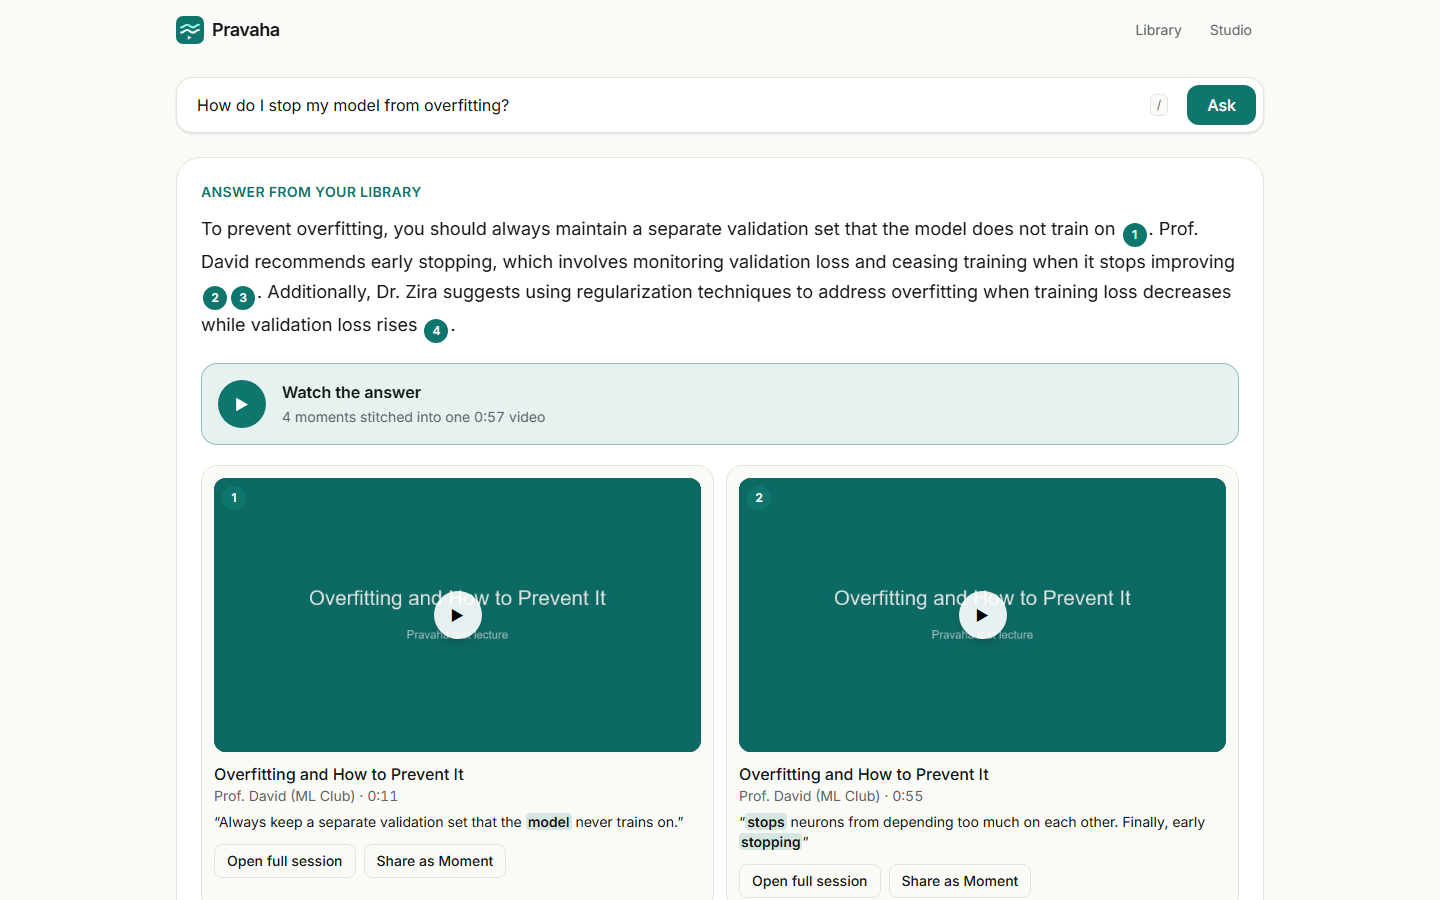
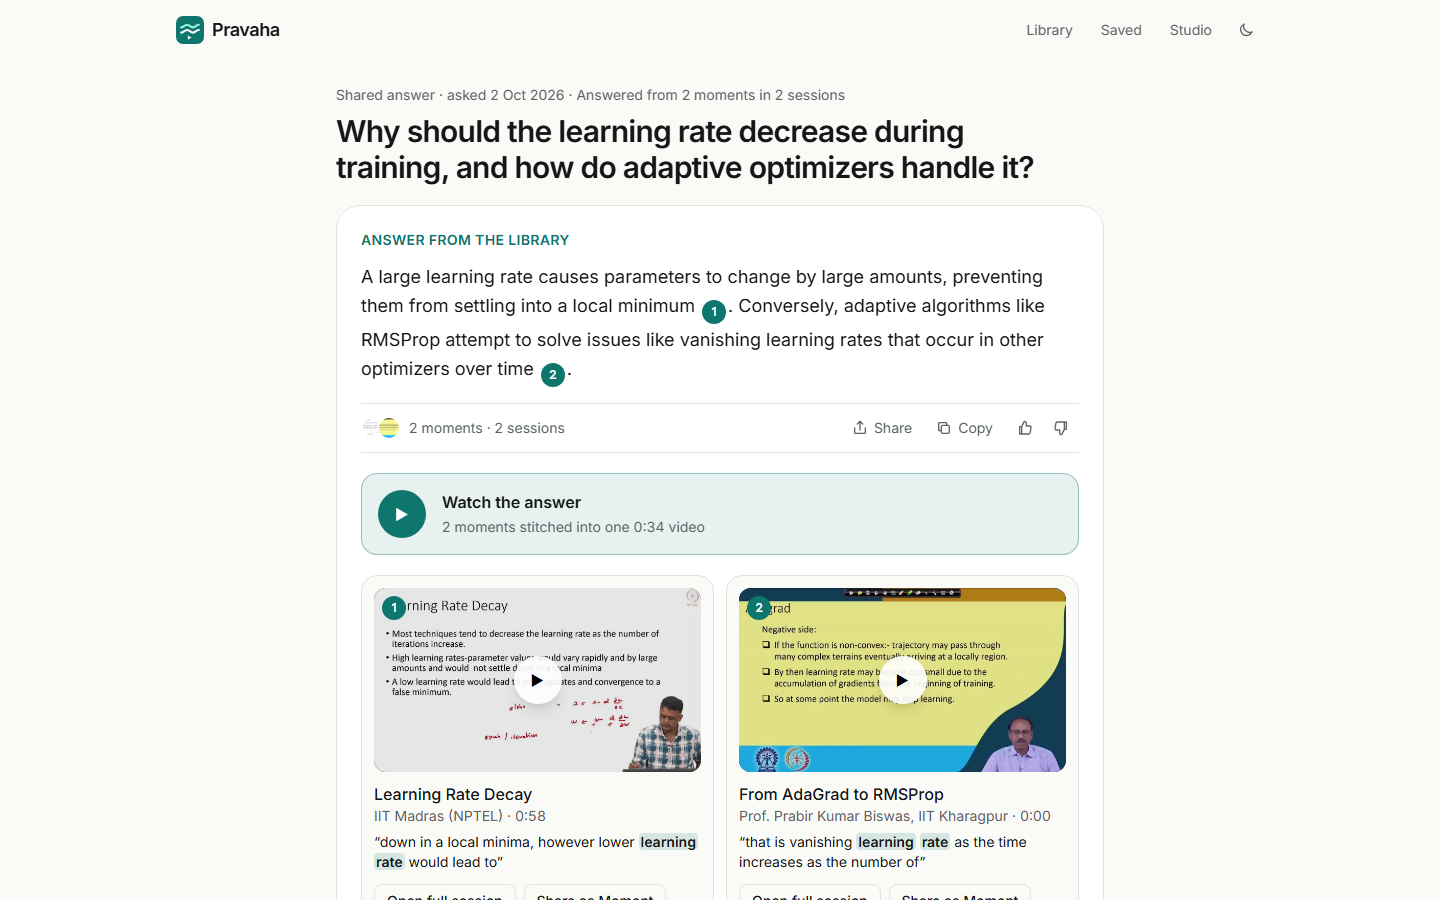
docs(readme): real-library screenshots, eval results and NPTEL credits

diff --git a/README.md b/README.md
@@ -72,7 +72,12 @@ Colleges, clubs and coaching institutes record hundreds of hours of lectures and
 
 | Home | Watch + Study Pack |
 |---|---|
-| <img src="docs/screenshots/home.png" alt="Home page with the Ask bar, how it works and the library" /> | <img src="docs/screenshots/watch.png" alt="Watch page with the adaptive player, chapters and the Study Pack" /> |
+| <img src="docs/screenshots/home.png" alt="Home page with the animated hero and the Ask bar" /> | <img src="docs/screenshots/watch.png" alt="Watch page with the adaptive player, chapters and the Study Pack" /> |
+
+<p align="center">
+  <img src="docs/screenshots/library.png" alt="The demo library: six lecture excerpts from IIT Kharagpur and IIT Madras" width="900" />
+  <br /><sub>The demo library: six machine-learning lecture excerpts from four NPTEL courses.</sub>
+</p>
 
 <p align="center">
   <img src="docs/screenshots/mobile-ask.png" alt="Ask on a phone" width="300" />
@@ -129,7 +134,7 @@ Diagrams and reasoning: [`docs/ARCHITECTURE.md`](docs/ARCHITECTURE.md) · [`docs
 
 Open the live app at **[pravaha-cyan.vercel.app](https://pravaha-cyan.vercel.app)**. Learners need no login.
 
-1. On the home page, type a question or tap a suggestion. Live progress appears, then an answer with numbered citations.
+1. On the home page, type a question or tap a suggestion. Try "Why should the learning rate decrease during training, and how do adaptive optimizers handle it?": live progress appears, then one answer citing two professors from two institutes, plus an Answer Reel. Or ask in Hindi: "ओवरफिटिंग क्या है?"
 2. Hover or tap a citation number to preview the quote. Play a source card: the clip starts at the exact moment. Then try **Watch the answer** (the Answer Reel), **Open full session** or **Share as Moment**.
 3. On a session page, open **Study**: the summary, key concepts, a quiz whose explanations play the moment, and "Session in 60 seconds".
 4. Search a phrase. The results jump to the second, across sessions.
@@ -217,7 +222,7 @@ openapi.yaml           API specification (OpenAPI 3.0)
   - Ask answers with a playable citation
   - Ask refuses an off-topic question
   - unauthenticated organizer requests and unsigned webhooks are rejected
-- **The AI eval** ([`docs/AI_EVALUATION.md`](docs/AI_EVALUATION.md)) checks that Ask stays grounded, cites real moments, and refuses when it should.
+- **The AI eval** ([`docs/AI_EVALUATION.md`](docs/AI_EVALUATION.md)) on production, Oct 2: **11/11 passed**: 8/8 answerable questions cited the expected session (including one in Hindi), 3/3 off-topic questions refused, 0 fallbacks, and **31/32 citations (97%)** supported their sentence on a manual check.
 - **Accessibility:** a skip link, visible focus rings, keyboard shortcuts, and every animation disabled under `prefers-reduced-motion`.
 
 ## Security
@@ -252,6 +257,18 @@ The app deploys to **Vercel**: every push to `main` deploys production, and pull
 | [`docs/IMPLEMENTATION_PLAN.md`](docs/IMPLEMENTATION_PLAN.md) · [`docs/phases/`](docs/phases/) | The 3-day build, phase by phase |
 | [`docs/GIT_WORKFLOW.md`](docs/GIT_WORKFLOW.md) | Branch per feature, PR, merge rules |
 | [`docs/DEMO.md`](docs/DEMO.md) · [`docs/SUBMISSION_CHECKLIST.md`](docs/SUBMISSION_CHECKLIST.md) | Demo script and submission tracking |
+
+## Demo library and credits
+
+The live library is six 2.5–3 minute excerpts from [NPTEL](https://nptel.ac.in) (IIT/IISc's National Programme on Technology Enhanced Learning) machine-learning courses, licensed **CC BY-NC-SA**. The excerpts are shared under the same licence, for non-commercial demonstration, with credit to:
+
+| Session | Course | Institute |
+|---|---|---|
+| Overfitting, Underfitting and Regularization · From AdaGrad to RMSProp | [Deep Learning](https://nptel.ac.in/courses/106105215), Prof. Prabir Kumar Biswas | IIT Kharagpur |
+| The Bias–Variance Trade-off · Learning Rate Decay · Gradient Descent Variants and Momentum | [Machine Learning for Engineering and Science Applications](https://nptel.ac.in/courses/106106198) | IIT Madras |
+| Underfitting and Overfitting in Practice | [Practical Machine Learning with TensorFlow](https://nptel.ac.in/courses/106106213) | IIT Madras |
+
+Pravaha is built for an institution's own recordings; these public lectures stand in for them in the demo.
 
 ## Team
 

diff --git a/docs/SUBMISSION_CHECKLIST.md b/docs/SUBMISSION_CHECKLIST.md
@@ -13,11 +13,11 @@ Deadline: submit by **Oct 3, 2026**; code freeze **Oct 4, 00:15 IST**. Submit vi
 - [ ] Cloudinary genuinely central — re-checked against shipped code (`CLOUDINARY.md` capability map)
 - [x] Working product on a live URL: https://pravaha-cyan.vercel.app (Vercel, deploys from `main`)
 - [x] Learner flows (Watch, Find, Ask, Moments) work without login (Oct 2: Playwright smoke tests 12/12 against production, desktop and mobile)
-- [ ] Demo library: 5–8 public sessions
+- [x] Demo library: 6 public sessions (NPTEL excerpts, CC BY-NC-SA, credited in the README), uploaded through the production pipeline on Oct 2
 
 ## Repository
 - [x] Public repo: `Monolithic-Dev/Pravaha` (own repo is allowed by HackIndia's FAQ)
-- [ ] README explains track, problem, Cloudinary usage, how to test — with live URL, screenshots, demo link (all done except the demo link; retake screenshots once the real library is in)
+- [ ] README explains track, problem, Cloudinary usage, how to test — with live URL, screenshots, demo link (all done except the demo link; screenshots retaken with the real library on Oct 2)
 - [x] README keeps the HackIndia team tag line
 - [ ] Setup instructions a stranger can follow cold (`SETUP.md`)
 - [x] No API keys or credentials anywhere in history — `git log -p | grep -iE "api_secret|sk-ant|postgres://|passcode"` returns only env-variable references (checked Oct 2)
